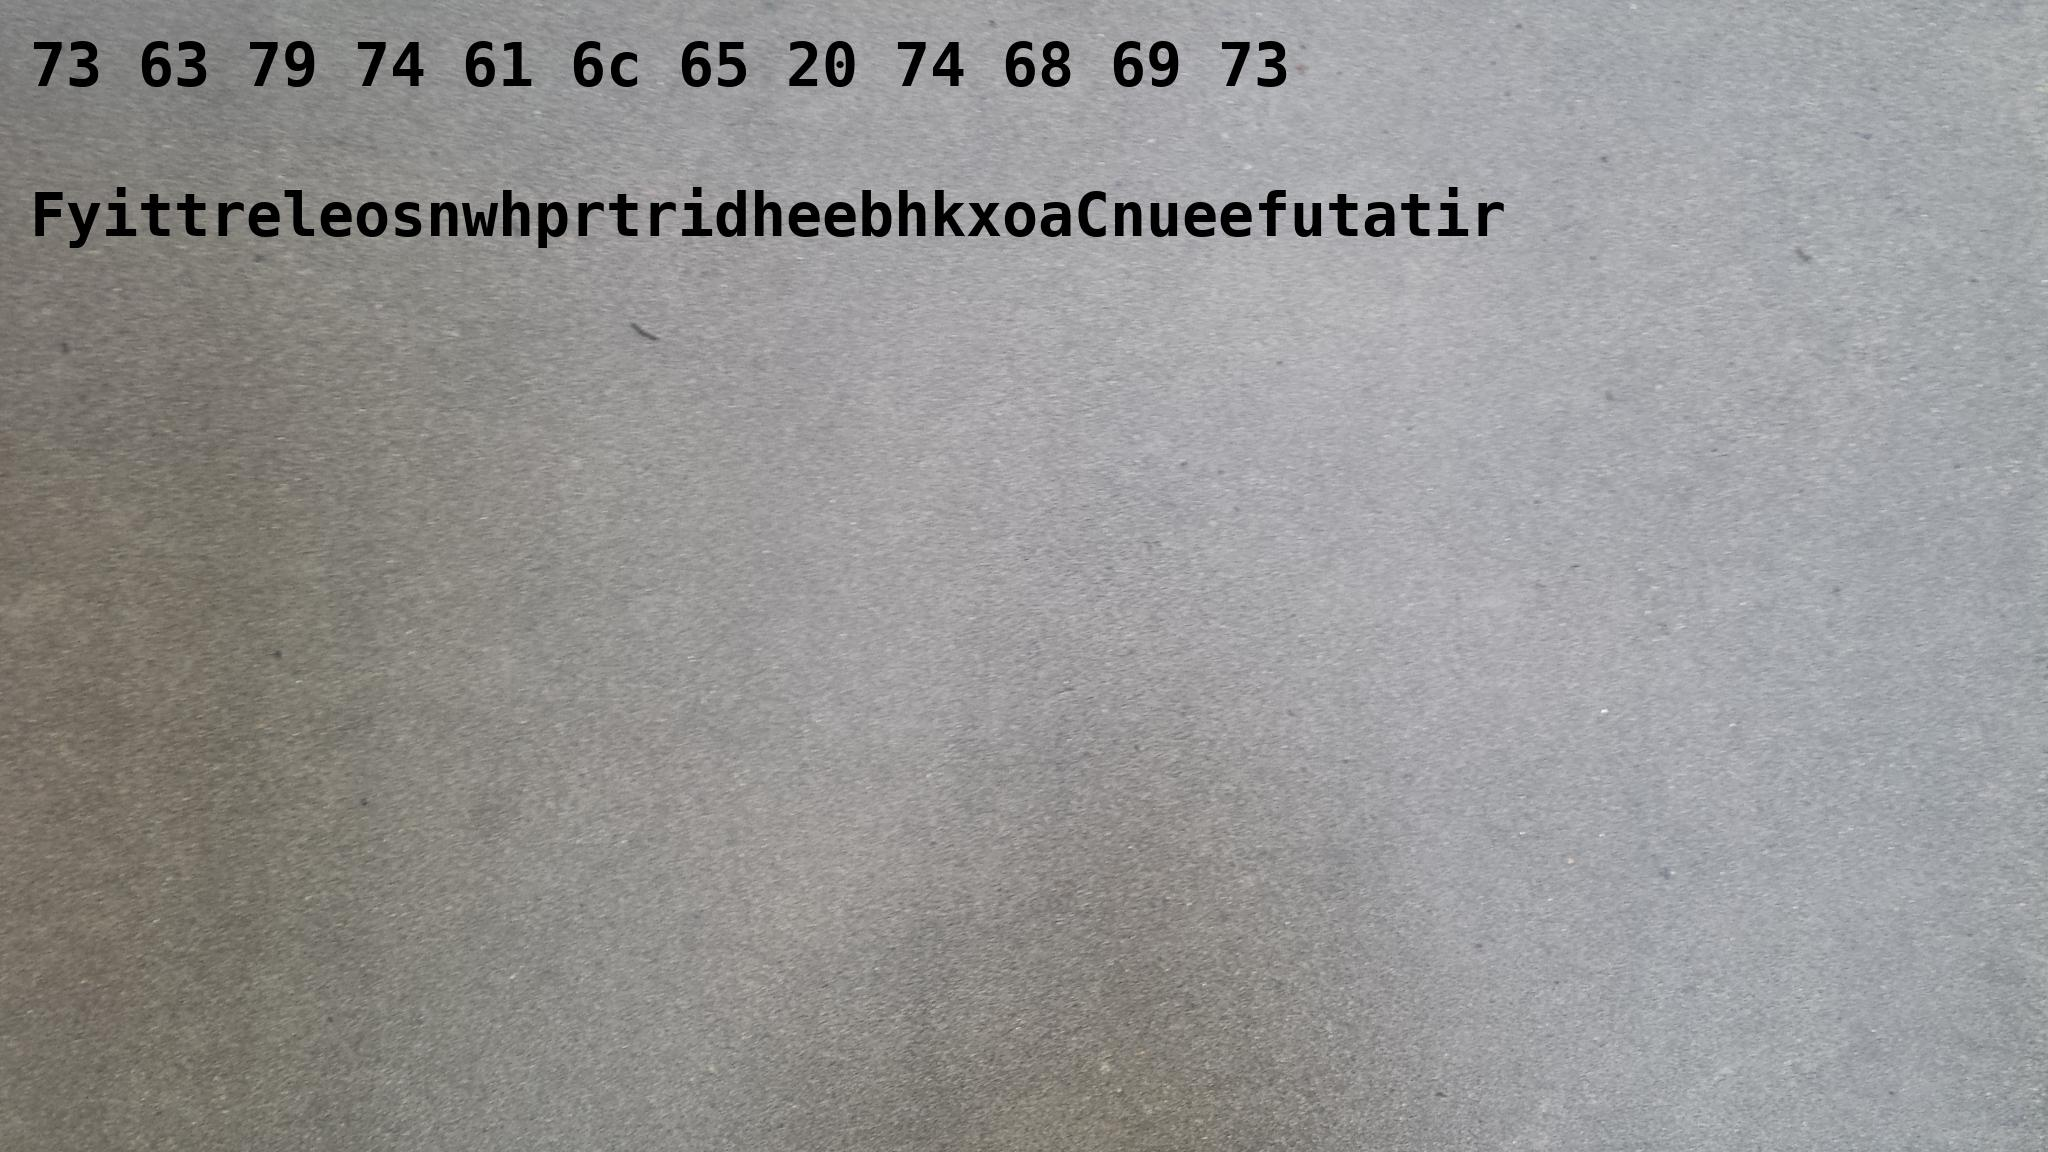
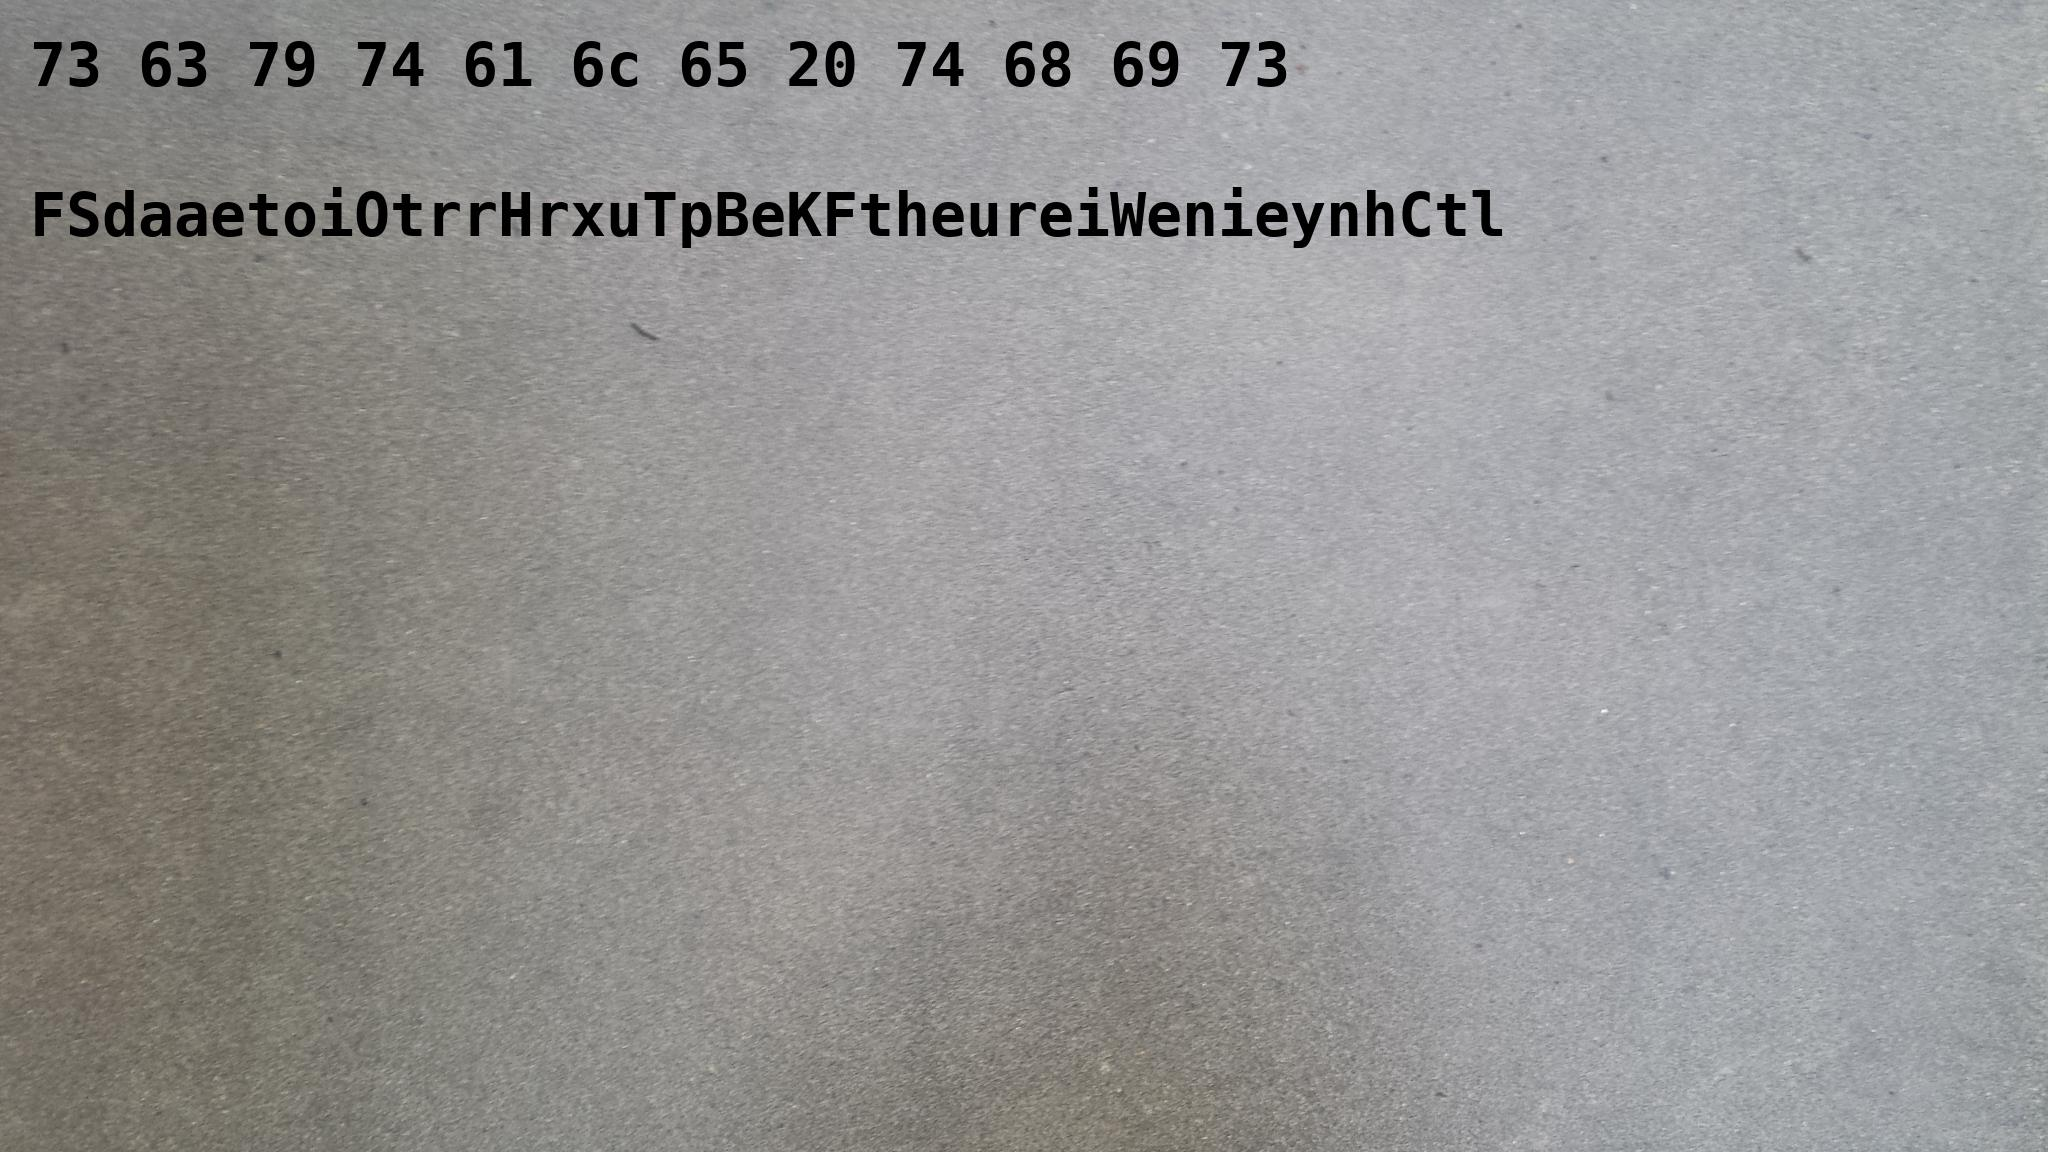
new urban race

Changed region(s): [[0.0312, 0.1562, 0.75, 0.2188]]

diff --git a/UrbanRace/u6_all/u6step4.py b/UrbanRace/u6_all/u6step4.py
@@ -10,6 +10,7 @@ sys.path.insert(1, os.path.join(sys.path[0], '..'))
 import challenges as c
 
 # c.u6c => challenge no. 6 for urban race
+#  Make sure the day before the race maps to Day 33 in enigma key table
 s=c.u6c
 
 latdeg=c.u6latdeg
@@ -19,7 +20,7 @@ longref=c.u6longref
 
 s=s.replace(' ','')
 msg1="73 63 79 74 61 6c 65 20 74 68 69 73"
-msg2=s[0::5]+s[1::5]+s[2::5]+s[3::5]+s[4::5]
+msg2=s[0::6]+s[1::6]+s[2::6]+s[3::6]+s[4::6]+s[5::6]
 img = Image.open("static/concrete_orig.jpg")
 draw = ImageDraw.Draw(img)
 # font = ImageFont.truetype(<font-file>, <font-size>)
@@ -28,7 +29,7 @@ font = ImageFont.truetype("/usr/share/fonts/truetype/dejavu/DejaVuSansMono-Bold.
 draw.text((30, 30),msg1,font=font, fill=(0,0,0))
 draw.text((30, 180),msg2,font=font, fill=(0,0,0))
 img.save('static/concrete.jpg')
-command='exiftool -ImageDescription="'+s+'" static/concrete.jpg'
-os.system(command)
+#command='exiftool -ImageDescription="'+s+'" static/concrete.jpg'
+#os.system(command)
 command='exiftool -exif:gpslatitude='+latdeg+' -exif:gpslatituderef='+latref+' -exif:gpslongitude='+longdeg+' -exif:gpslongituderef='+longref+' static/concrete.jpg'
 os.system(command)

diff --git a/UrbanRace/challenges.py b/UrbanRace/challenges.py
@@ -15,7 +15,7 @@ u5c = "For key five, Two Pharoahs Are Guarding It On A Building Across The Park 
 u5s = "BLACKSTONE"
 
 # No commas allowed
-u6c = "For key six find out what the Carpenter built here"
+u6c = "For Key Six Find Out What The Carpenter Built Here"
 u6latdeg='45.509238'
 u6latref='N'
 u6longdeg='122.681360'
